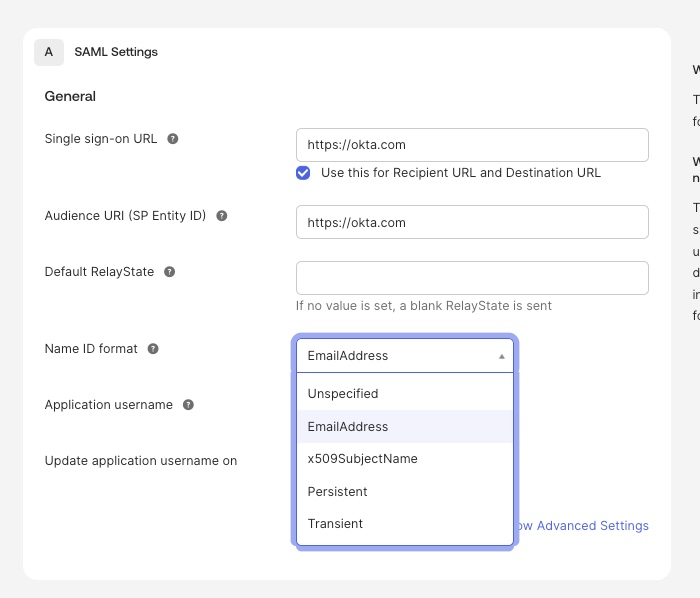
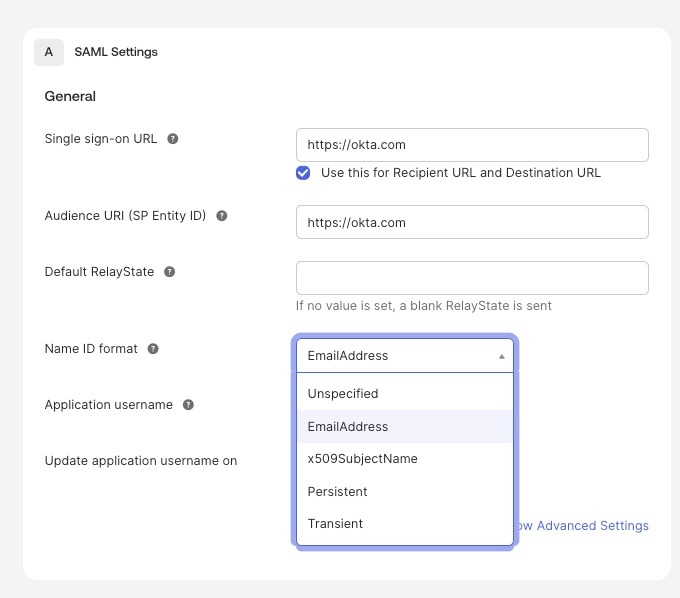
Fix typo and crop truncated sidebar text from screenshot
- "Langage" -> "Language" in the SAML intro sentence
- Crop saml-nameid-settings.jpeg to remove truncated help-panel
  text bleeding in from the right edge

diff --git a/_source/_posts/2026-07-03-cross-app-access-saml.md b/_source/_posts/2026-07-03-cross-app-access-saml.md
@@ -15,7 +15,7 @@ image: blog/cross-app-access-saml/social.jpg
 type: awareness
 ---
 
-If you currently federate enterprise customers using Security Assertion Markup Langage (SAML) and want to allow AI agents to access your API without migrating to OpenID Connect (OIDC), this Cross App Access (XAA) guide is for you.
+If you currently federate enterprise customers using Security Assertion Markup Language (SAML) and want to allow AI agents to access your API without migrating to OpenID Connect (OIDC), this Cross App Access (XAA) guide is for you.
 
 The [Identity Assertion Authorization Grant specification](https://datatracker.ietf.org/doc/draft-ietf-oauth-identity-assertion-authz-grant/), the basis of XAA, was originally designed with OIDC in mind. To use it in SAML applications, you must accommodate specific security and uniqueness requirements. This guide details what you need to support and how to verify SAML-derived claims at your resource authorization server.
 
@@ -237,6 +237,7 @@ Cross App Access is an early access feature in Okta. Integrator Free Plan accoun
 
   {% img blog/cross-app-access-saml/enable-xaa-resource-server.jpeg alt:"Enable XAA in Okta" width:"800" %}{: .center-image }
 
+<br>
 * **Set the `NameID`:**   
 
   1. In your SAML app's **General > SAML Settings**, set **Name ID Format** to match your existing identifier 